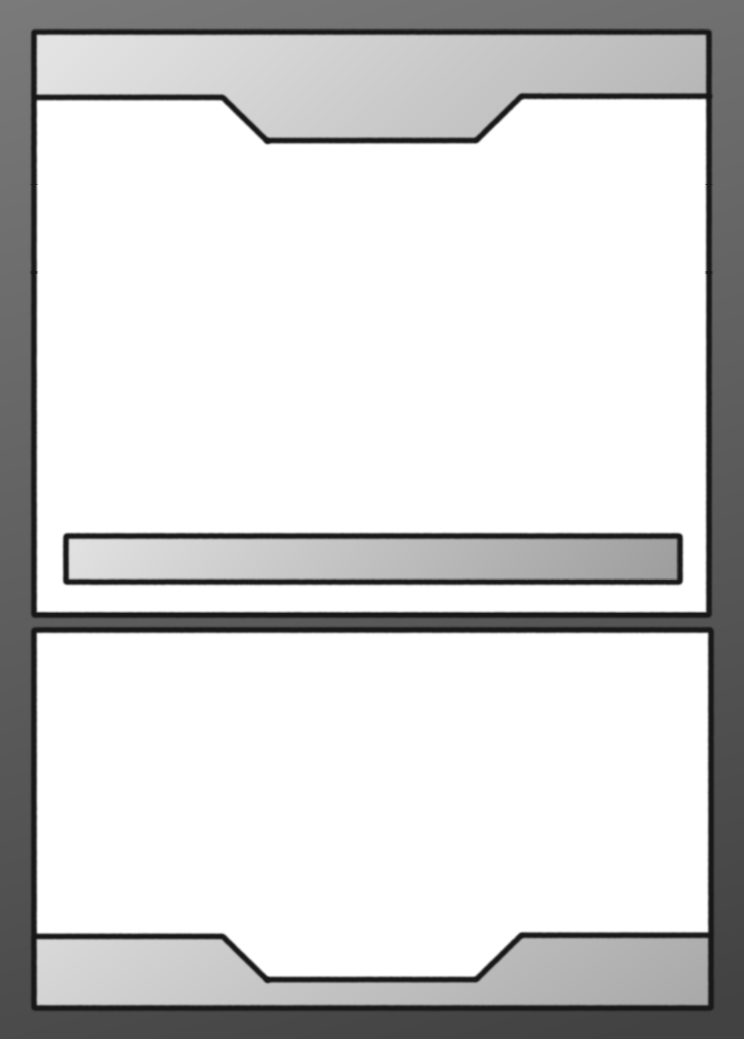
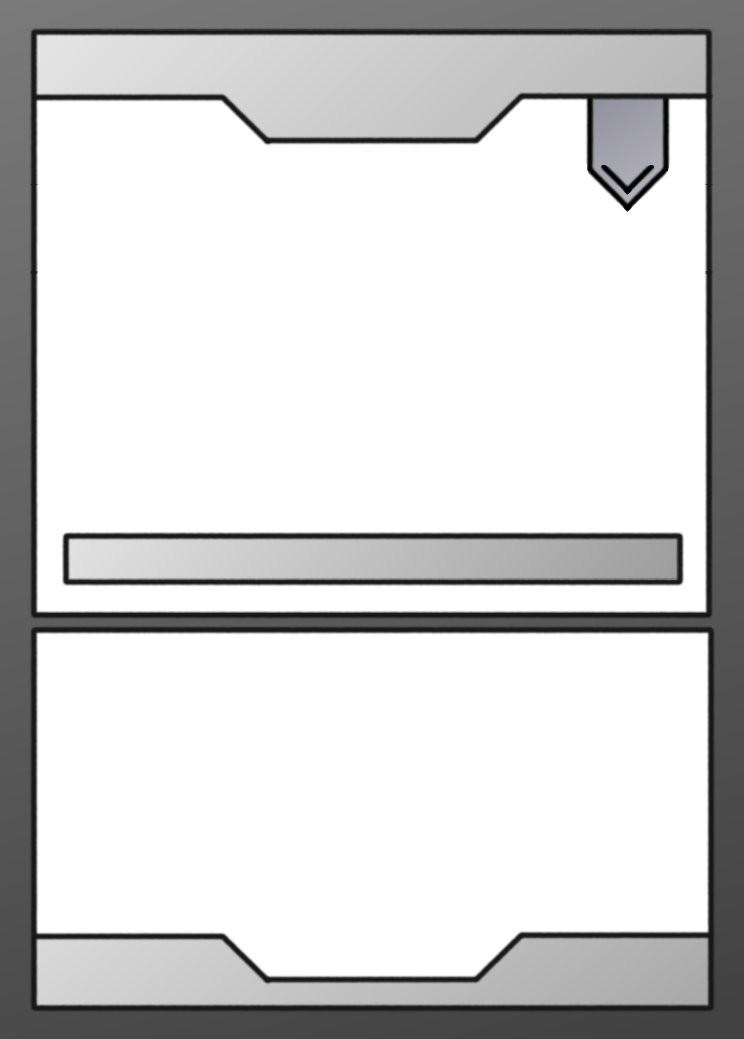
Added level cost and tweaks

Changed region(s): [[0.7728, 0.0924, 0.9274, 0.2156]]

diff --git a/saveCard.js b/saveCard.js
@@ -234,38 +234,41 @@ function createSavedCardElement(data, name, totalCost) {
     label.textContent = name;
     div.appendChild(label);
 
-    // Left-side single-number strip
-    const leftStrip = document.createElement("div");
-    leftStrip.className = "left-strip";
-    leftStrip.textContent = totalCost;   // or whatever number you want
-    div.appendChild(leftStrip);
+    if (data.style !== "Backline") {
 
-    // Right-side strip container
-    const container = document.createElement("div");
-    container.className = "strip-container";
-    div.appendChild(container);
+        // Left-side single-number strip
+        const leftStrip = document.createElement("div");
+        leftStrip.className = "left-strip";
+        leftStrip.textContent = totalCost;   // or whatever number you want
+        div.appendChild(leftStrip);
 
-    // Determine active colours from cost
-    let activeColours = Object.entries(data.cost)
-        .filter(([key, value]) => Number(value) > 0);
+        // Right-side strip container
+        const container = document.createElement("div");
+        container.className = "strip-container";
+        div.appendChild(container);
 
-    // If more than one colour, remove relic
-    if (activeColours.length > 1) {
-        activeColours = activeColours.filter(([key]) => key !== "relic");
+        // Determine active colours from cost
+        let activeColours = Object.entries(data.cost)
+            .filter(([key, value]) => Number(value) > 0);
+
+        // If more than one colour, remove relic
+        if (activeColours.length > 1) {
+            activeColours = activeColours.filter(([key]) => key !== "relic");
+        }
+
+        // Sort strips by cost
+        activeColours = activeColours
+            .sort((a, b) => Number(b[1]) - Number(a[1]))
+            .map(([key]) => layouts.Colours[key]);
+
+        // Add one strip per active colour
+        activeColours.forEach(col => {
+            const strip = document.createElement("div");
+            strip.className = "colour-strip";
+            strip.style.background = col;
+            container.appendChild(strip);
+        });
     }
-
-    // Sort strips by cost
-    activeColours = activeColours
-        .sort((a, b) => Number(b[1]) - Number(a[1]))
-        .map(([key]) => layouts.Colours[key]);
-
-    // Add one strip per active colour
-    activeColours.forEach(col => {
-        const strip = document.createElement("div");
-        strip.className = "colour-strip";
-        strip.style.background = col;
-        container.appendChild(strip);
-    });
 
     div.addEventListener("click", () => {
         loadCard(data.id);
@@ -286,26 +289,6 @@ function setSelected(id, selector) {
     document.querySelectorAll(selector).forEach(el => {
         el.classList.toggle("selected", el.dataset.id === id);
     });
-}
-
-function formToCardData() {
-    return {
-        id: currentCardId,
-        style: document.getElementById("cardStyle").value,
-        name: document.getElementById("cardName").value,
-        class: document.getElementById("cardClass").value,
-        desc: document.getElementById("cardDesc").value,
-        lore: document.getElementById("cardLore").value,
-        attack: document.getElementById("cardAttack").value,
-        defence: document.getElementById("cardDefence").value,
-        cost: {
-            ash: document.getElementById("costAsh").value,
-            tech: document.getElementById("costTech").value,
-            stoic: document.getElementById("costStoic").value,
-            chem: document.getElementById("costChem").value,
-            relic: document.getElementById("costRelic").value
-        }
-    };
 }
 
 export function newCard() {
@@ -376,7 +359,13 @@ function getCardsData(ids) {
     data.sort((b, a) => {
         const sumA = Object.values(a.cost).reduce((n, v) => n + Number(v), 0);
         const sumB = Object.values(b.cost).reduce((n, v) => n + Number(v), 0);
-        return sumB - sumA;
+
+        // Primary: total cost (descending)
+        const diff = sumB - sumA;
+        if (diff !== 0) return diff;
+
+        // Secondary: name (ascending)
+        return a.name.localeCompare(b.name);
     });
 
     // Group by style
@@ -408,6 +397,7 @@ export function loadCard(id) {
     document.getElementById("cardLore").value = data.lore || "";
     document.getElementById("cardAttack").value = data.attack || "";
     document.getElementById("cardDefence").value = data.defence || "";
+    document.getElementById("levelCost").value = data.levelCost || "";
 
     document.getElementById("costAsh").value = data.cost?.ash || "";
     document.getElementById("costTech").value = data.cost?.tech || "";
@@ -419,6 +409,27 @@ export function loadCard(id) {
     updateVisibleInputs();
     drawCard();
     return data.name;
+}
+
+function formToCardData() {
+    return {
+        id: currentCardId,
+        style: document.getElementById("cardStyle").value,
+        name: document.getElementById("cardName").value,
+        class: document.getElementById("cardClass").value,
+        desc: document.getElementById("cardDesc").value,
+        lore: document.getElementById("cardLore").value,
+        attack: document.getElementById("cardAttack").value,
+        defence: document.getElementById("cardDefence").value,
+        levelCost: document.getElementById("levelCost").value,
+        cost: {
+            ash: document.getElementById("costAsh").value,
+            tech: document.getElementById("costTech").value,
+            stoic: document.getElementById("costStoic").value,
+            chem: document.getElementById("costChem").value,
+            relic: document.getElementById("costRelic").value
+        }
+    };
 }
 
 export function exportDeckPNG() {

diff --git a/drawCard.js b/drawCard.js
@@ -33,6 +33,7 @@ export function drawCard() {
     const lore = document.getElementById("cardLore").value;
     const atk = document.getElementById("cardAttack").value;
     const def = document.getElementById("cardDefence").value;
+    const levelCost = document.getElementById("levelCost").value;
     const costs = [
         {value: document.getElementById("costAsh").value, color: layouts.Colours.ash},
         {value: document.getElementById("costTech").value, color: layouts.Colours.tech},
@@ -73,6 +74,15 @@ export function drawCard() {
         ctx.font = "bold 28px Arial";
         ctx.textAlign = ["Leader", "Backline"].includes(style) ? "center" : "left";
         ctx.fillText(name, L.name.x, L.name.y);
+    }
+
+    // LEVEL COST
+    if (L.levelCost && levelCost) {
+        ctx.font = "bold 22px Arial";
+        ctx.fillStyle = layouts.Colours.relic;
+        ctx.textAlign = "centre";
+        ctx.fillText(levelCost, L.levelCost.x, L.levelCost.y);
+        ctx.fillStyle = "#000";
     }
 
     // CLASS

diff --git a/style.css b/style.css
@@ -27,15 +27,14 @@ button:active {
     margin: 0;
 }
 
+/* Controls */
 
-/* Preview column */
 #preview {
     padding-right: 20px;
     border-right: 3px solid #444;
     flex: 0 0 auto;
 }
 
-/* Details column */
 .cost-row {
     display: flex;
     gap: 10px;
@@ -43,21 +42,12 @@ button:active {
 
 .cost-row label {
     flex: 1;
-    /* all labels grow equally */
 }
 
 #controls input,
 #controls textarea,
 #controls select {
     width: 100%;
-}
-
-/* Deck Details column */
-.cost-bar {
-    background: #4a90e2;
-    color: #ffffff;
-    padding: 4px;
-    margin: 3px 0;
 }
 
 #colourBarWrapper {
@@ -76,6 +66,12 @@ button:active {
 
 .colour-segment {
     height: 100%;
+}
+
+
+#controls label.levelCost-row select {
+    width: 40px;          /* or 30px if you prefer */
+    flex: 0 0 auto;       /* prevents flex expansion */
 }
 
 /* Selection Box */

diff --git a/main.js b/main.js
@@ -27,7 +27,7 @@ styleSelect.addEventListener("change", () => {
     updateVisibleInputs();
 
 });
-const costIds = ["costAsh", "costTech", "costStoic", "costChem", "costRelic"];
+const costIds = ["costAsh", "costTech", "costStoic", "costChem", "costRelic", "levelCost"];
 costIds.forEach(id => {
     const select = document.getElementById(id);
     for (let i = 0; i <= 9; i++) {
@@ -47,6 +47,8 @@ const controls = document.getElementById("controls");
 controls.querySelectorAll("input, select, textarea").forEach(el => {
     el.addEventListener("blur", saveCard);
 });
+const styleControl = document.getElementById("cardStyle");
+styleControl.addEventListener("change", saveCard);
 
 document.getElementById("addToDeckBtn").addEventListener("click", addToDeck);
 document.getElementById("removeFromDeckBtn").addEventListener("click", removeFromDeck);

diff --git a/index.html b/index.html
@@ -42,7 +42,8 @@
                 <label>Chem: <select id="costChem"></select></label>
                 <label>Relic: <select id="costRelic"></select></label>
             </div>
-            <div class="total-cost">Total: </div>
+            <div class="total-cost">Total:</div>
+            <label class="levelCost-row" data-types="Leader">Level Cost: <select id="levelCost"></select><br></label>
             <label data-types="Leader,Creature,Structure">Class: <input type="text" id="cardClass"></label>
             <label data-types="Leader,Backline,Creature,Structure,Augment,Stratagem">Description: <textarea
                     id="cardDesc" rows="7"></textarea></label>

diff --git a/layouts.js b/layouts.js
@@ -1,6 +1,7 @@
 export const layouts = {
   Leader: {
     name: { x: 223, y: 50 },
+    levelCost: { x: 376, y: 90 },
     cost: { x: 226, y: 74 },
     class: { x: 46, y: 342 },
     desc: { x: 40, y: 410, w: 360, h: 120, s: 20 },
